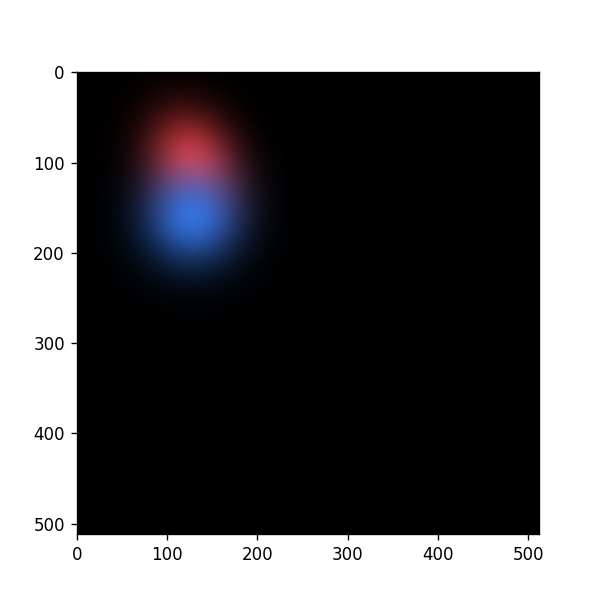
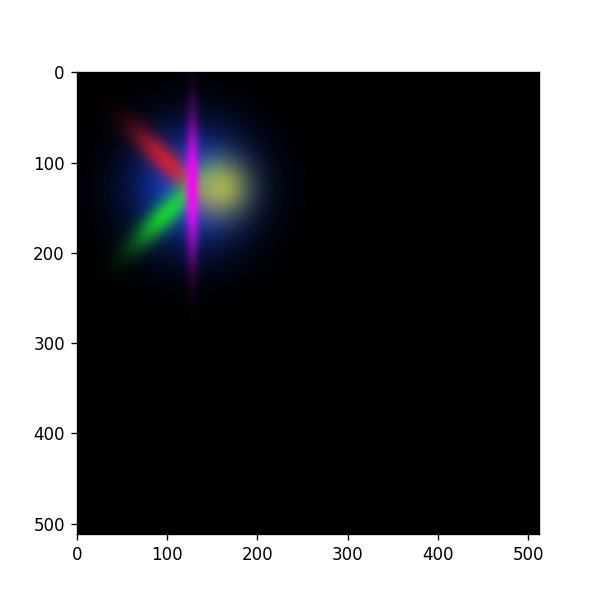
2d listo

Changed region(s): [[0.18, 0.15, 0.45, 0.48]]

diff --git a/rasterizador_3d.py b/rasterizador_3d.py
@@ -2,14 +2,89 @@ import numpy as np
 import matplotlib.pyplot as plt
 from matplotlib.patches import Ellipse
 
+from crear_gausiana_3d import Gaussiana_3d , cuaternion_a_matriz_rotacion
 
-def covarianza_3d()
+from crear_camara import Camara , crear_orbita_camara
+
+
+IMAGE_SIZE = (400, 400)
+
+GAUSSIANAS = [
+   
+    {
+        "centro": [-1.0, -1.0, -1.0],   
+        "escala": [0.18, 0.18, 0.18], 
+        "cuaternion": [1.0, 0.0, 0.0, 0.0], 
+        "color": [1.0, 0.2, 0.2],      
+        "opacidad": 0.9
+    },
+    
+    {
+        "centro": [-1.0, -1.0, 1.0],
+        "escala": [0.18, 0.18, 0.18],
+        "cuaternion": [1.0, 0.0, 0.0, 0.0],
+        "color": [0.2, 1.0, 0.2],  
+        "opacidad": 0.9
+    },
+   
+    {
+        "centro": [-1.0, 1.0, -1.0],
+        "escala": [0.18, 0.18, 0.18],
+        "cuaternion": [1.0, 0.0, 0.0, 0.0],
+        "color": [0.2, 0.2, 1.0],     
+        "opacidad": 0.9
+    }
+]
+
+
+CAMARAS = [
+    {
+        "angulo_camara": 0.0,  # Ángulo de la cámara alrededor del centro
+        "radio": 4.0,     # Qué tan lejos está la cámara del centro
+        "altura": 1.5,    
+        "campo_vision": 45.0    # Campo de visión
+    }
+]
+
+
+def covarianza_3d(escala , cuaternion):
+    
+    matriz_rotacion = cuaternion_a_matriz_rotacion(cuaternion)
+    escala_matriz = np.diag(escala)
+    comvarianza_3d = matriz_rotacion @ escala_matriz @ escala_matriz.T @ matriz_rotacion.T
+
+    return comvarianza_3d
 
 
 
-def crear_escena():
+def jacobiano(camara_puntos , funcion_x , funcion_y):
+
+    tx , ty , tz = camara_puntos
+
+    jacobiano = np.array([
+        [funcion_x / tz, 0.0, -funcion_x * tx / (tz**2)],
+        [0.0, funcion_y / tz, -funcion_y * ty / (tz**2)]
+        
+    ], dtype=np.float64)
+
+    return jacobiano
+
+
+def proyecctar_covarianza_3da2d(covarianza_3d ,camara_puntos, matriz_vista , funcion_x , funcion_y):
+
+    jacobiano = jacobiano(camara_puntos, funcion_x, funcion_y)
+
+    covarianza_2d = jacobiano @ matriz_vista @ covarianza_3d @ matriz_vista.T @ jacobiano.T
+
+    return covarianza_2d
+
+
+
+
+def crear_escena_3d():
+    lista_gaussianas = []
     for gausiana in GAUSSIANAS:
-        g = Gaussiana(
+        g = Gaussiana_3d(
             centro=gausiana["centro"],
             escala=gausiana["escala"],
             rotacion=gausiana["rotacion_grados"],
@@ -18,5 +93,27 @@ def crear_escena():
             profundidad=gausiana["profundidad"])
         
         lista_gaussianas.append(g)
+    camaras = []
+    for camara in CAMARAS:
+        camaras.append(camara)
 
-    return lista_gaussianas
+    return lista_gaussianas , camaras
+
+def hacer_proyeccion(gaussiana , camara):
+    
+
+
+
+def main():
+
+    gaussianas, camaras = crear_escena_3d()
+    cantidad_vistas = len(camaras)
+    vistas = []
+    pop_indices = []
+
+    for i, camara_c in enumerate(camaras):
+        camara_vista = crear_orbita_camara(np.array([0.0, 0.0, 0.0]), camara_c["radio"], camara_c["angulo_camara"], camara_c["altura"], camara_c["campo_vision"])
+
+
+
+

diff --git a/rasterizador.py b/rasterizador.py
@@ -7,24 +7,74 @@ ALFA_MIN = 1.0 / 255.0
 ALFA_MAX = 0.99
 
 
+# IMAGE_SIZE = (512, 512)
+
+# GAUSSIANAS = [
+#     {
+#         "centro": [200, 256],
+#         "escala": [160, 130],
+#         "rotacion_grados": 25,
+#         "color": [1.0, 0.25, 0.25],
+#         "opacidad": 0.85,
+#         "profundidad": 2.0,
+#     },
+#     {
+#         "centro": [320, 256],
+#         "escala": [150, 150],
+#         "rotacion_grados": 0,
+#         "color": [0.2, 0.5, 1.0],
+#         "opacidad": 0.85,
+#         "profundidad": 1.0,
+#     },
+# ]
+
 IMAGE_SIZE = (512, 512)
 
 GAUSSIANAS = [
+   
     {
-        "centro": [200, 256],
-        "escala": [160, 130],
-        "rotacion_grados": 25,
-        "color": [1.0, 0.25, 0.25],
-        "opacidad": 0.85,
+        "centro": [256, 256],
+        "escala": [180, 180],
+        "rotacion_grados": 0,
+        "color": [0.1, 0.3, 1.0], # Azul
+        "opacidad": 0.9,
+        "profundidad": 5.0,       # La más lejana
+    },
+   
+    {
+        "centro": [200, 200],
+        "escala": [140, 40],
+        "rotacion_grados": 45,
+        "color": [1.0, 0.1, 0.1], # Rojo
+        "opacidad": 0.75,
+        "profundidad": 4.0,
+    },
+   
+    {
+        "centro": [312, 200],
+        "escala": [140, 40],
+        "rotacion_grados": -45,
+        "color": [0.1, 1.0, 0.1], # Verde
+        "opacidad": 0.75,
+        "profundidad": 3.0,
+    },
+
+    {
+        "centro": [256, 320],
+        "escala": [90, 90],
+        "rotacion_grados": 0,
+        "color": [1.0, 1.0, 0.1], # Amarillo
+        "opacidad": 0.6,
         "profundidad": 2.0,
     },
+   
     {
-        "centro": [320, 256],
-        "escala": [150, 150],
-        "rotacion_grados": 0,
-        "color": [0.2, 0.5, 1.0],
-        "opacidad": 0.85,
-        "profundidad": 1.0,
+        "centro": [256, 256],
+        "escala": [20, 200],
+        "rotacion_grados": 90,
+        "color": [1.0, 0.0, 1.0], 
+        "opacidad": 0.4,
+        "profundidad": 0.5,      
     },
 ]
 
@@ -56,7 +106,9 @@ def rasterizar(gausianas, alto, ancho):
     
 
 # me devuelve los indices de las gaussianas ordenadas por profundidad
+
     gausianas_ordenadas = sorted(gausianas, key=lambda g: g.profundidad)
+   # gausianas_ordenadas = sorted(gausianas, key=lambda g: g.profundidad, reverse=True)
 
 # apra guardar paramtros
     covarianzas =[]

diff --git a/crear_camara.py b/crear_camara.py
@@ -38,7 +38,14 @@ class Camara:
         matriz_vista[:3, 3] = traslacion
 
         return matriz_vista
-
-
-
     
+
+
+def crear_orbita_camara(punto_inicio , radio , angulo , altura , focal):
+
+    angulo_radian = np.deg2rad(angulo)
+    posicion = punto_inicio + np.array([radio * np.sin(angulo_radian), altura, radio * np.cos(angulo_radian)])
+
+    camara_final = Camara(posicion = posicion,punto_mira = punto_inicio,
+                          arriba = np.array([0.0, 1.0, 0.0]), focal = focal , size = (512, 512))
+    return camara_final

diff --git a/grafico.py b/grafico.py
@@ -24,8 +24,14 @@ def main():
 
     fig, ax = plt.subplots(figsize=(5, 5), dpi=120)
     ax.imshow(np.clip(imagen, 0, 1))
-    fig.savefig("resultado.png")
+    fig.savefig("resultado_orden.png")
     plt.show()
+
+
+
+
+
+    
 
 if __name__ == "__main__":
     main()
